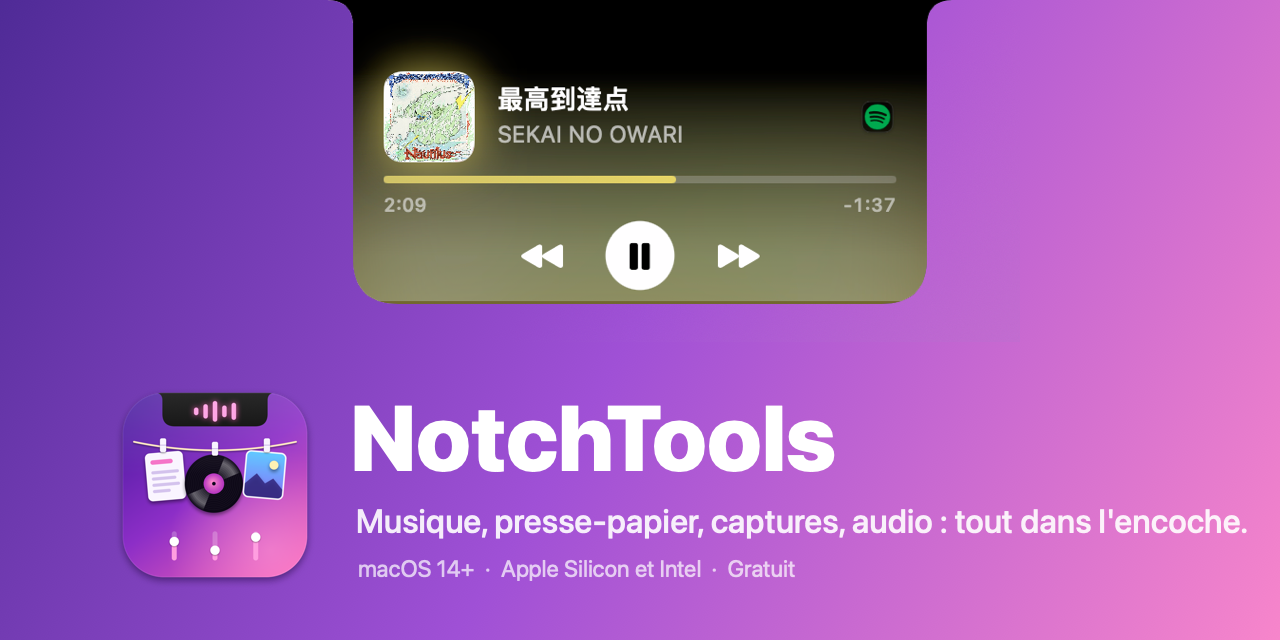
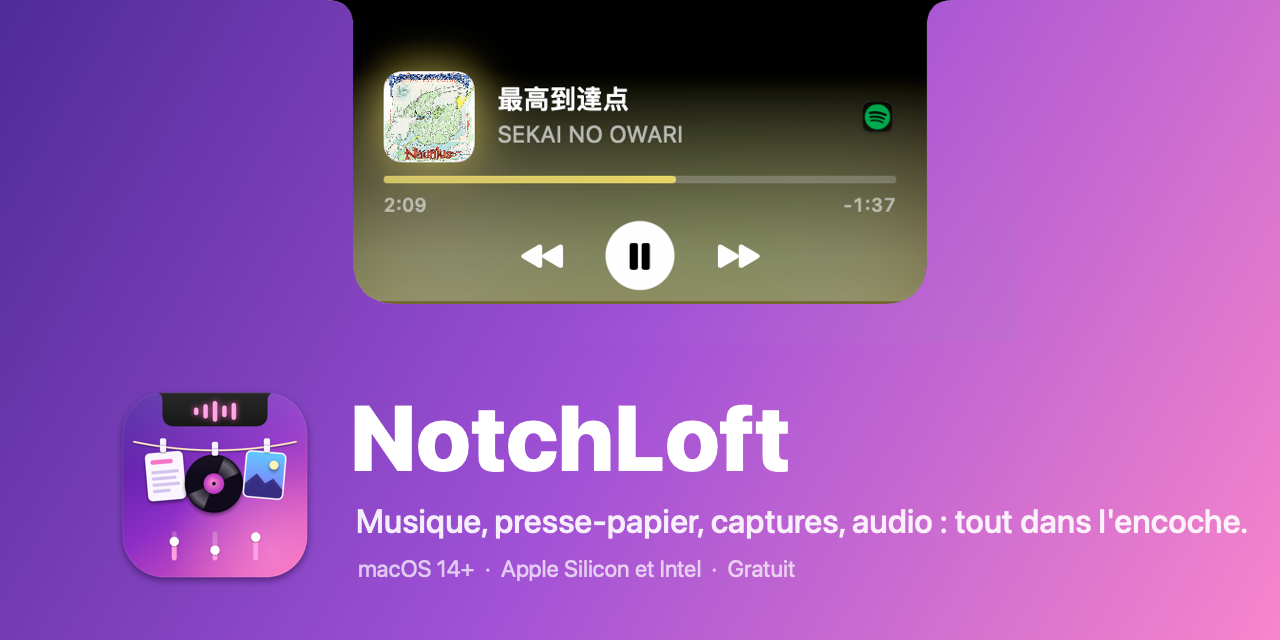
Renommage en NotchLoft

Changed region(s): [[0.4688, 0.625, 0.6562, 0.75]]

diff --git a/Sources/NotchLoft/ScreenshotShelf.swift b/Sources/NotchLoft/ScreenshotShelf.swift
@@ -38,7 +38,7 @@ final class ScreenshotShelf: ObservableObject {
     private var thumbs: [URL: Thumb] = [:]
     private var lastPasteCount = NSPasteboard.general.changeCount
     private var ignoredPasteCount = -1
-    private let queue = DispatchQueue(label: "notchtools.shelf", qos: .utility)
+    private let queue = DispatchQueue(label: "notchloft.shelf", qos: .utility)
 
     private static let prefixes = [
         "screenshot", "screen shot", "capture d", "bildschirmfoto", "captura de pantalla", "schermata", "cleanshot",
@@ -52,7 +52,7 @@ final class ScreenshotShelf: ObservableObject {
     private static let videoExtensions: Set<String> = ["mov", "mp4", "m4v"]
 
     static func directory() -> URL {
-        if let o = ProcessInfo.processInfo.environment["NOTCHTOOLS_SHELF_DIR"], !o.isEmpty {
+        if let o = ProcessInfo.processInfo.environment["NOTCHLOFT_SHELF_DIR"], !o.isEmpty {
             return URL(fileURLWithPath: o)
         }
         if let loc = UserDefaults(suiteName: "com.apple.screencapture")?.string(forKey: "location") {
@@ -64,7 +64,7 @@ final class ScreenshotShelf: ObservableObject {
     /// Captures copiées dans le presse-papiers (sans fichier) : on les enregistre ici pour pouvoir les accrocher.
     static let captureDirectory: URL = {
         let dir = FileManager.default.urls(for: .applicationSupportDirectory, in: .userDomainMask)[0]
-            .appendingPathComponent("NotchTools/Captures", isDirectory: true)
+            .appendingPathComponent("NotchLoft/Captures", isDirectory: true)
         try? FileManager.default.createDirectory(at: dir, withIntermediateDirectories: true)
         return dir
     }()

diff --git a/Sources/NotchLoft/NowPlayingService.swift b/Sources/NotchLoft/NowPlayingService.swift
@@ -20,7 +20,7 @@ struct TrackSnapshot {
 final class NowPlayingService: @unchecked Sendable {
     var onUpdate: ((TrackSnapshot?) -> Void)?
 
-    private let io = DispatchQueue(label: "notchtools.nowplaying")
+    private let io = DispatchQueue(label: "notchloft.nowplaying")
     private var process: Process?
     private var buffer = Data()
     private var payload: [String: Any] = [:]
@@ -60,7 +60,7 @@ final class NowPlayingService: @unchecked Sendable {
 
     private func launch() {
         guard let paths = Self.locate() else {
-            NSLog("NotchTools: adaptateur MediaRemote introuvable")
+            NSLog("NotchLoft: adaptateur MediaRemote introuvable")
             return
         }
         let p = Process()
@@ -87,7 +87,7 @@ final class NowPlayingService: @unchecked Sendable {
             try p.run()
             process = p
         } catch {
-            NSLog("NotchTools: impossible de lancer perl: \(error)")
+            NSLog("NotchLoft: impossible de lancer perl: \(error)")
         }
     }
 

diff --git a/scripts/make-social.swift b/scripts/make-social.swift
@@ -35,7 +35,7 @@ func text(_ s: String, _ size: CGFloat, _ weight: NSFont.Weight, _ alpha: CGFloa
     (s as NSString).draw(at: p, withAttributes: [.font: NSFont.systemFont(ofSize: size, weight: weight),
                                                   .foregroundColor: NSColor.white.withAlphaComponent(alpha)])
 }
-text("NotchTools", 92, .heavy, 1, at: NSPoint(x: 350, y: 150))
+text("NotchLoft", 92, .heavy, 1, at: NSPoint(x: 350, y: 150))
 text("Musique, presse-papier, captures, audio : tout dans l'encoche.", 33, .medium, 0.9, at: NSPoint(x: 356, y: 100))
 text("macOS 14+  ·  Apple Silicon et Intel  ·  Gratuit", 23, .regular, 0.7, at: NSPoint(x: 358, y: 58))
 NSGraphicsContext.restoreGraphicsState()

diff --git a/Sources/NotchLoft/NotchLoftApp.swift b/Sources/NotchLoft/NotchLoftApp.swift
@@ -2,7 +2,7 @@ import AppKit
 import SwiftUI
 
 @main
-struct NotchToolsApp: App {
+struct NotchLoftApp: App {
     @NSApplicationDelegateAdaptor(AppDelegate.self) private var delegate
 
     @ObservedObject private var settings = Settings.shared
@@ -33,7 +33,7 @@ struct NotchToolsApp: App {
             Divider()
             Toggle("Lancer au démarrage", isOn: $settings.launchAtLogin)
             Divider()
-            Button("Quitter NotchTools") { NSApp.terminate(nil) }
+            Button("Quitter NotchLoft") { NSApp.terminate(nil) }
                 .keyboardShortcut("q")
         } label: {
             Image(nsImage: MenuBarIcon.make())

diff --git a/Sources/NotchLoft/ClipboardStore.swift b/Sources/NotchLoft/ClipboardStore.swift
@@ -24,7 +24,7 @@ final class ClipboardStore: ObservableObject {
 
     init() {
         let dir = FileManager.default.urls(for: .applicationSupportDirectory, in: .userDomainMask)[0]
-            .appendingPathComponent("NotchTools", isDirectory: true)
+            .appendingPathComponent("NotchLoft", isDirectory: true)
         try? FileManager.default.createDirectory(at: dir, withIntermediateDirectories: true)
         fileURL = dir.appendingPathComponent("pinned-clipboard.json")
         if let data = try? Data(contentsOf: fileURL),

diff --git a/scripts/make-dmg-background.swift b/scripts/make-dmg-background.swift
@@ -31,7 +31,7 @@ ctx.addPath(head); ctx.strokePath()
 let attrs: [NSAttributedString.Key: Any] = [
     .font: NSFont.systemFont(ofSize: 15, weight: .medium),
     .foregroundColor: NSColor(calibratedRed: 0.35, green: 0.15, blue: 0.6, alpha: 0.9)]
-let text = "Glisse NotchTools dans Applications" as NSString
+let text = "Glisse NotchLoft dans Applications" as NSString
 NSGraphicsContext.saveGraphicsState()
 NSGraphicsContext.current = NSGraphicsContext(cgContext: ctx, flipped: false)
 let size = text.size(withAttributes: attrs)

diff --git a/Sources/NotchLoft/Settings.swift b/Sources/NotchLoft/Settings.swift
@@ -89,7 +89,7 @@ final class Settings: ObservableObject {
             do {
                 if launchAtLogin { try SMAppService.mainApp.register() } else { try SMAppService.mainApp.unregister() }
             } catch {
-                NSLog("NotchTools: lancement au démarrage impossible: \(error)")
+                NSLog("NotchLoft: lancement au démarrage impossible: \(error)")
                 launchAtLogin = SMAppService.mainApp.status == .enabled
             }
         }

diff --git a/Package.swift b/Package.swift
@@ -2,12 +2,12 @@
 import PackageDescription
 
 let package = Package(
-    name: "NotchTools",
+    name: "NotchLoft",
     platforms: [.macOS(.v14)],
     targets: [
         .executableTarget(
-            name: "NotchTools",
-            path: "Sources/NotchTools"
+            name: "NotchLoft",
+            path: "Sources/NotchLoft"
         )
     ]
 )

diff --git a/scripts/make-icon.swift b/scripts/make-icon.swift
@@ -1,4 +1,4 @@
-// Génère Resources/AppIcon-1024.png (icône NotchTools). Usage : swift scripts/make-icon.swift <sortie.png>
+// Génère Resources/AppIcon-1024.png (icône NotchLoft). Usage : swift scripts/make-icon.swift <sortie.png>
 import AppKit
 import CoreGraphics
 
